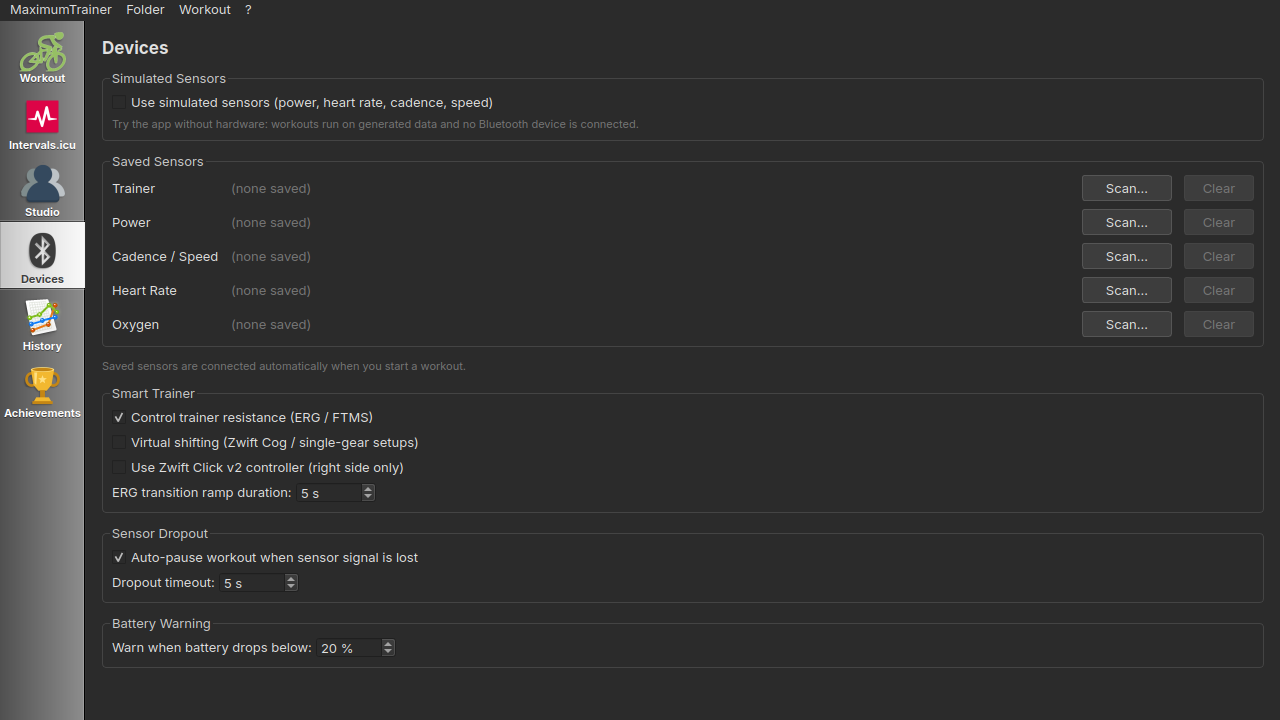
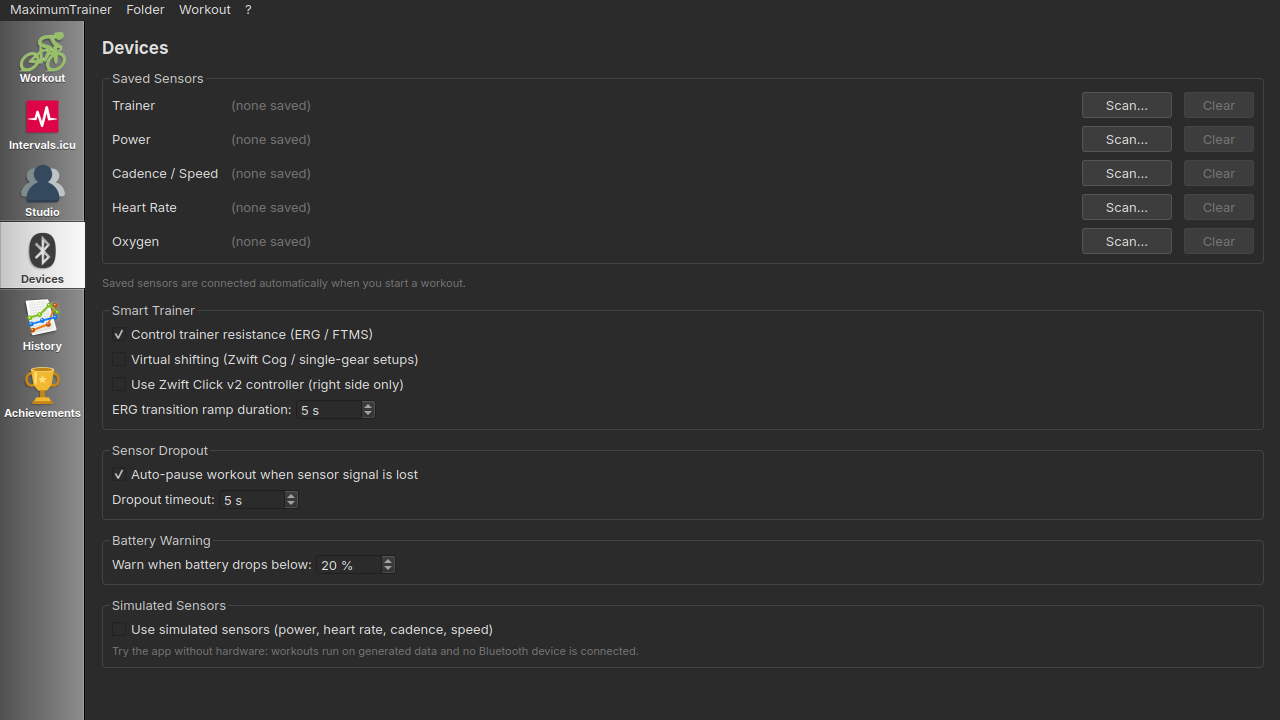
fix(devices): Simulated Sensors at the bottom of the Devices page

diff --git a/src/ui/sensorswidget.cpp b/src/ui/sensorswidget.cpp
@@ -30,19 +30,8 @@ SensorsWidget::SensorsWidget(QWidget *parent)
     reload();
 }
 
-void SensorsWidget::buildUi()
+void SensorsWidget::addSimulatedSensorsGroup(QVBoxLayout *layout)
 {
-    QVBoxLayout *mainLayout = new QVBoxLayout(this);
-    mainLayout->setContentsMargins(16, 16, 16, 16);
-    mainLayout->setSpacing(12);
-
-    QLabel *title = new QLabel(tr("Devices"), this);
-    QFont titleFont = title->font();
-    titleFont.setPointSizeF(titleFont.pointSizeF() + 3);
-    titleFont.setBold(true);
-    title->setFont(titleFont);
-    mainLayout->addWidget(title);
-
     QGroupBox *simulatedGroup = new QGroupBox(tr("Simulated Sensors"), this);
     QVBoxLayout *simulatedLayout = new QVBoxLayout(simulatedGroup);
     simulatedLayout->setSpacing(4);
@@ -56,7 +45,21 @@ void SensorsWidget::buildUi()
     simulatedHint->setWordWrap(true);
     simulatedHint->setStyleSheet(QStringLiteral("color: #777; font-size: 11px;"));
     simulatedLayout->addWidget(simulatedHint);
-    mainLayout->addWidget(simulatedGroup);
+    layout->addWidget(simulatedGroup);
+}
+
+void SensorsWidget::buildUi()
+{
+    QVBoxLayout *mainLayout = new QVBoxLayout(this);
+    mainLayout->setContentsMargins(16, 16, 16, 16);
+    mainLayout->setSpacing(12);
+
+    QLabel *title = new QLabel(tr("Devices"), this);
+    QFont titleFont = title->font();
+    titleFont.setPointSizeF(titleFont.pointSizeF() + 3);
+    titleFont.setBold(true);
+    title->setFont(titleFont);
+    mainLayout->addWidget(title);
 
 #ifdef GC_WASM_BUILD
     QLabel *unavailable = new QLabel(
@@ -64,6 +67,7 @@ void SensorsWidget::buildUi()
     unavailable->setWordWrap(true);
     unavailable->setStyleSheet(QStringLiteral("color: #777;"));
     mainLayout->addWidget(unavailable);
+    addSimulatedSensorsGroup(mainLayout);
     mainLayout->addStretch();
     return;
 #else
@@ -235,6 +239,7 @@ void SensorsWidget::buildUi()
 
     mainLayout->addWidget(batteryGroup);
 
+    addSimulatedSensorsGroup(mainLayout);
     mainLayout->addStretch();
 
     // The FTMS slot and control group follow the app mode (Rower vs Trainer).

diff --git a/src/ui/sensorswidget.h b/src/ui/sensorswidget.h
@@ -11,6 +11,7 @@ class QPushButton;
 class QCheckBox;
 class QSpinBox;
 class QGroupBox;
+class QVBoxLayout;
 class Account;
 
 /*
@@ -40,6 +41,7 @@ private slots:
     void onVirtualShiftingToggled(bool checked);
     void onUseZwiftClickToggled(bool checked);
     void onSimulatedSensorsToggled(bool checked);
+    void addSimulatedSensorsGroup(QVBoxLayout *layout);
     void onErgRampChanged(int seconds);
     void onSensorDropoutChanged();
     void onBatteryThresholdChanged(int percent);
